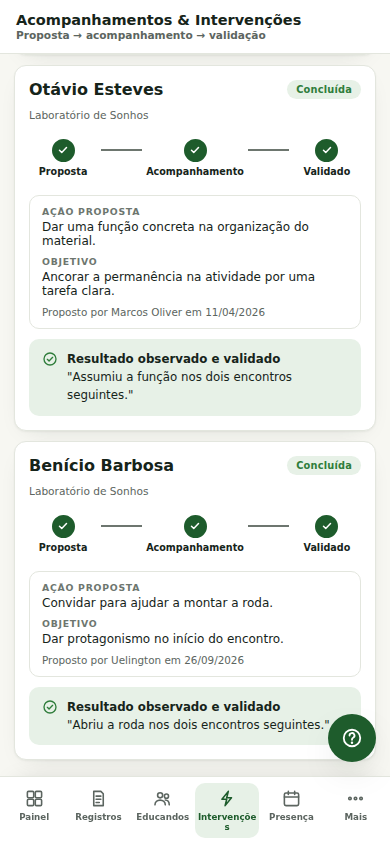
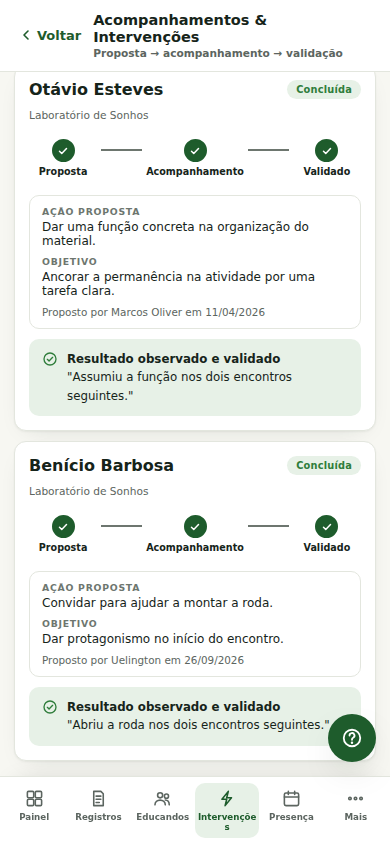
Add files via upload

Changed region(s): [[0.0308, 0.0, 0.9538, 0.0924], [0.1538, 0.4621, 0.3385, 0.4929]]

diff --git a/docs/testes/relatorio-html/index.html b/docs/testes/relatorio-html/index.html
@@ -82,4 +82,4 @@ Error generating stack: `+n.message+`
     <div id='root'></div>
   </body>
 </html>
[2 lines of base64/hex data omitted]

diff --git a/evidencias.html b/evidencias.html
@@ -105,15 +105,15 @@ footer{padding:40px 0 60px;color:var(--ink-3);font-size:13px}
   <div class="meta">
     <a class="chip" href="https://gabi-guerreiro.github.io/ebenezer-conecta/" target="_blank" rel="noopener">▶ Abrir o app</a>
     <a class="chip" href="https://github.com/gabi-guerreiro/ebenezer-conecta">Repositório</a>
-    <span class="chip">Testes executados em 26 de setembro de 2026 às 15:03</span>
+    <span class="chip">Testes executados em 26 de setembro de 2026 às 16:22</span>
   </div>
 </div></header>
 
 <div class="wrap"><div class="kpis">
-  <div class="kpi"><div class="n">16/16</div><div class="l">Testes aprovados</div></div>
+  <div class="kpi"><div class="n">17/17</div><div class="l">Testes aprovados</div></div>
   <div class="kpi"><div class="n">3</div><div class="l">Perfis com acesso separado</div></div>
   <div class="kpi"><div class="n">18</div><div class="l">Educandos sintéticos</div></div>
-  <div class="kpi"><div class="n">8</div><div class="l">Defeitos corrigidos</div></div>
+  <div class="kpi"><div class="n">9</div><div class="l">Defeitos corrigidos</div></div>
 </div></div>
 
 <nav class="toc"><div class="wrap">
@@ -127,7 +127,7 @@ footer{padding:40px 0 60px;color:var(--ink-3);font-size:13px}
   <p class="lead">Cada requisito da entrega, a evidência que o atende e o teste automatizado que o comprova.</p>
   <div class="card tbl"><table class="stack-sm">
     <thead><tr><th>Critério</th><th>Evidência</th><th class="hide-sm">Teste</th><th>Status</th></tr></thead>
-    <tbody><tr><td><b>MVP funcional executando o fluxo principal</b></td><td>Presença → avaliação DBR → observação → revisão humana → intervenção → trajetória → encaminhamento à psicóloga, nos 3 perfis. <a href="#fluxo">ver →</a></td><td class="hide-sm mono">T04–T12</td><td><span class="pill ok">Atendido</span></td></tr><tr><td><b>Modelo de dados implementado</b></td><td>9 coleções com chaves e regras de integridade (ERD e dicionário documentados). <a href="#modelo">ver →</a></td><td class="hide-sm mono">T13</td><td><span class="pill ok">Atendido</span></td></tr><tr><td><b>Populado com dados sintéticos representativos</b></td><td>18 educandos em 4 turmas, 15 avaliações, 9 registros, 3 intervenções, 4 encaminhamentos e 1 caso, cobrindo todos os estados. <a href="#dados">ver →</a></td><td class="hide-sm mono">T13</td><td><span class="pill ok">Atendido</span></td></tr><tr><td><b>Fase de testes validando o fluxo principal</b></td><td>16 testes E2E automatizados (Playwright): 16/16 aprovados. <a href="#testes">ver →</a></td><td class="hide-sm mono">T01–T16</td><td><span class="pill ok">Atendido</span></td></tr><tr><td><b>Operação estável</b></td><td>Zero erros de JavaScript em todos os testes, persistência após recarregar, restauração de dados, sem rolagem lateral em 375 px e 1280 px, 8 defeitos corrigidos. <a href="#estabilidade">ver →</a></td><td class="hide-sm mono">T15–T16</td><td><span class="pill ok">Atendido</span></td></tr><tr><td><b>Entrega via repositório</b></td><td>Código, testes, scripts e documentos versionados no GitHub e publicados no GitHub Pages. <a href="#acesso">ver →</a></td><td class="hide-sm mono">—</td><td><span class="pill ok">Atendido</span></td></tr><tr><td><b>Handover · vídeo demonstrativo</b></td><td>Vídeo narrado de 2 min 37 s, com legendas, gravado a partir do app real. <a href="#video">ver →</a></td><td class="hide-sm mono">—</td><td><span class="pill ok">Atendido</span></td></tr><tr><td><b>Handover · registro do modelo de dados</b></td><td>docs/modelo-de-dados.md: ERD, dicionário, regras calculadas. <a href="#modelo">ver →</a></td><td class="hide-sm mono">—</td><td><span class="pill ok">Atendido</span></td></tr><tr><td><b>Handover · instalação e acesso</b></td><td>README.md: link, perfis e códigos, como rodar, testar, publicar e manter. <a href="#acesso">ver →</a></td><td class="hide-sm mono">—</td><td><span class="pill ok">Atendido</span></td></tr><tr><td><b>Handover · evidências dos testes</b></td><td>Esta página + relatório Playwright + JSON + capturas de tela. <a href="#testes">ver →</a></td><td class="hide-sm mono">—</td><td><span class="pill ok">Atendido</span></td></tr><tr><td><b>Handover · principais decisões técnicas</b></td><td>docs/decisoes-tecnicas.md: 8 decisões e 8 correções. <a href="#decisoes">ver →</a></td><td class="hide-sm mono">—</td><td><span class="pill ok">Atendido</span></td></tr></tbody>
+    <tbody><tr><td><b>MVP funcional executando o fluxo principal</b></td><td>Presença → avaliação DBR → observação → revisão humana → intervenção → trajetória → encaminhamento à psicóloga, nos 3 perfis. <a href="#fluxo">ver →</a></td><td class="hide-sm mono">T04–T12</td><td><span class="pill ok">Atendido</span></td></tr><tr><td><b>Modelo de dados implementado</b></td><td>9 coleções com chaves e regras de integridade (ERD e dicionário documentados). <a href="#modelo">ver →</a></td><td class="hide-sm mono">T13</td><td><span class="pill ok">Atendido</span></td></tr><tr><td><b>Populado com dados sintéticos representativos</b></td><td>18 educandos em 4 turmas, 15 avaliações, 9 registros, 3 intervenções, 4 encaminhamentos e 1 caso, cobrindo todos os estados. <a href="#dados">ver →</a></td><td class="hide-sm mono">T13</td><td><span class="pill ok">Atendido</span></td></tr><tr><td><b>Fase de testes validando o fluxo principal</b></td><td>17 testes E2E automatizados (Playwright): 17/17 aprovados. <a href="#testes">ver →</a></td><td class="hide-sm mono">T01–T17</td><td><span class="pill ok">Atendido</span></td></tr><tr><td><b>Operação estável</b></td><td>Zero erros de JavaScript em todos os testes, navegação com &quot;Voltar&quot; em todas as abas, persistência após recarregar, restauração de dados, sem rolagem lateral em 375 px e 1280 px, 9 defeitos corrigidos. <a href="#estabilidade">ver →</a></td><td class="hide-sm mono">T15–T17</td><td><span class="pill ok">Atendido</span></td></tr><tr><td><b>Entrega via repositório</b></td><td>Código, testes, scripts e documentos versionados no GitHub e publicados no GitHub Pages. <a href="#acesso">ver →</a></td><td class="hide-sm mono">—</td><td><span class="pill ok">Atendido</span></td></tr><tr><td><b>Handover · vídeo demonstrativo</b></td><td>Vídeo narrado de 2 min 37 s, com legendas, gravado a partir do app real. <a href="#video">ver →</a></td><td class="hide-sm mono">—</td><td><span class="pill ok">Atendido</span></td></tr><tr><td><b>Handover · registro do modelo de dados</b></td><td>docs/modelo-de-dados.md: ERD, dicionário, regras calculadas. <a href="#modelo">ver →</a></td><td class="hide-sm mono">—</td><td><span class="pill ok">Atendido</span></td></tr><tr><td><b>Handover · instalação e acesso</b></td><td>README.md: link, perfis e códigos, como rodar, testar, publicar e manter. <a href="#acesso">ver →</a></td><td class="hide-sm mono">—</td><td><span class="pill ok">Atendido</span></td></tr><tr><td><b>Handover · evidências dos testes</b></td><td>Esta página + relatório Playwright + JSON + capturas de tela. <a href="#testes">ver →</a></td><td class="hide-sm mono">—</td><td><span class="pill ok">Atendido</span></td></tr><tr><td><b>Handover · principais decisões técnicas</b></td><td>docs/decisoes-tecnicas.md: 8 decisões e 9 correções. <a href="#decisoes">ver →</a></td><td class="hide-sm mono">—</td><td><span class="pill ok">Atendido</span></td></tr></tbody>
   </table></div>
 </section>
 
@@ -181,25 +181,26 @@ footer{padding:40px 0 60px;color:var(--ink-3);font-size:13px}
     <figure class="shot"><img loading="lazy" src="docs/evidencias/15-caso-atividade.png" alt="Caso clínico com atividade registrada"><figcaption><span class="tid">T10</span>Caso clínico com atividade registrada</figcaption></figure>
     <figure class="shot"><img loading="lazy" src="docs/evidencias/16-trajetoria.png" alt="Trajetória individual com leitura da evolução"><figcaption><span class="tid">T11</span>Trajetória individual com leitura da evolução</figcaption></figure>
     <figure class="shot"><img loading="lazy" src="docs/evidencias/17-relatorio.png" alt="Relatório com ficha técnica de cobertura"><figcaption><span class="tid">T12</span>Relatório com ficha técnica de cobertura</figcaption></figure>
+    <figure class="shot"><img loading="lazy" src="docs/evidencias/18-voltar-ao-painel.png" alt="Botão &quot;Voltar&quot; fora do painel (versão 1.0.1)"><figcaption><span class="tid">T17</span>Botão &quot;Voltar&quot; fora do painel (versão 1.0.1)</figcaption></figure>
   </div>
 </section>
 
 <section id="testes">
   <h2>Evidências dos testes</h2>
-  <p class="lead">16 testes ponta a ponta com Playwright + Chromium em tela de celular (390×844). Cada teste começa com o navegador limpo e reprova se ocorrer qualquer erro de JavaScript. Execução completa: 53 s. Resultado: <b>16 aprovados, 0 falhas</b>.</p>
+  <p class="lead">17 testes ponta a ponta com Playwright + Chromium em tela de celular (390×844). Cada teste começa com o navegador limpo e reprova se ocorrer qualquer erro de JavaScript. Execução completa: 57 s. Resultado: <b>17 aprovados, 0 falhas</b>.</p>
   <div class="card tbl"><table class="stack-sm">
     <thead><tr><th>ID</th><th>O que valida</th><th class="hide-sm">Grupo</th><th class="hide-sm">Duração</th><th>Resultado</th></tr></thead>
-    <tbody><tr><td class="mono"><b>T01</b></td><td>Tela inicial mostra os três perfis e a Equipe entra sem senha</td><td class="hide-sm muted">Acesso e perfis</td><td class="hide-sm"><div style="display:flex;gap:8px;align-items:center"><div class="bar" style="width:70px"><i style="width:4%"></i></div><span class="mono muted">0.6s</span></div></td><td><span class="pill ok">Aprovado</span></td></tr><tr><td class="mono"><b>T02</b></td><td>Código errado é recusado; código certo libera a Coordenação</td><td class="hide-sm muted">Acesso e perfis</td><td class="hide-sm"><div style="display:flex;gap:8px;align-items:center"><div class="bar" style="width:70px"><i style="width:4%"></i></div><span class="mono muted">0.6s</span></div></td><td><span class="pill ok">Aprovado</span></td></tr><tr><td class="mono"><b>T03</b></td><td>Segregação: só a psicóloga vê encaminhamentos, caso clínico e contato do responsável</td><td class="hide-sm muted">Acesso e perfis</td><td class="hide-sm"><div style="display:flex;gap:8px;align-items:center"><div class="bar" style="width:70px"><i style="width:22%"></i></div><span class="mono muted">4.1s</span></div></td><td><span class="pill ok">Aprovado</span></td></tr><tr><td class="mono"><b>T04</b></td><td>Presença: marcar todos, fechar lançamento; só a coordenação reabre</td><td class="hide-sm muted">Fluxo principal da coleta</td><td class="hide-sm"><div style="display:flex;gap:8px;align-items:center"><div class="bar" style="width:70px"><i style="width:24%"></i></div><span class="mono muted">4.5s</span></div></td><td><span class="pill ok">Aprovado</span></td></tr><tr><td class="mono"><b>T05</b></td><td>Avaliação bloqueada sem consentimento; liberada após a coordenação registrar</td><td class="hide-sm muted">Fluxo principal da coleta</td><td class="hide-sm"><div style="display:flex;gap:8px;align-items:center"><div class="bar" style="width:70px"><i style="width:20%"></i></div><span class="mono muted">3.6s</span></div></td><td><span class="pill ok">Aprovado</span></td></tr><tr><td class="mono"><b>T06</b></td><td>Avaliação inicial (modo rápido) + sinalização para a psicóloga; depois vira check-in</td><td class="hide-sm muted">Fluxo principal da coleta</td><td class="hide-sm"><div style="display:flex;gap:8px;align-items:center"><div class="bar" style="width:70px"><i style="width:100%"></i></div><span class="mono muted">18.6s</span></div></td><td><span class="pill ok">Aprovado</span></td></tr><tr><td class="mono"><b>T07</b></td><td>Registro de observação: alerta de outro nome, envio para revisão</td><td class="hide-sm muted">Fluxo principal da coleta</td><td class="hide-sm"><div style="display:flex;gap:8px;align-items:center"><div class="bar" style="width:70px"><i style="width:11%"></i></div><span class="mono muted">2.1s</span></div></td><td><span class="pill ok">Aprovado</span></td></tr><tr><td class="mono"><b>T08</b></td><td>Revisão humana: coordenação valida um registro e outro é devolvido e corrigido</td><td class="hide-sm muted">Fluxo principal da coleta</td><td class="hide-sm"><div style="display:flex;gap:8px;align-items:center"><div class="bar" style="width:70px"><i style="width:16%"></i></div><span class="mono muted">2.9s</span></div></td><td><span class="pill ok">Aprovado</span></td></tr><tr><td class="mono"><b>T09</b></td><td>Intervenção percorre proposta → acompanhamento → validação</td><td class="hide-sm muted">Fluxo principal da coleta</td><td class="hide-sm"><div style="display:flex;gap:8px;align-items:center"><div class="bar" style="width:70px"><i style="width:19%"></i></div><span class="mono muted">3.5s</span></div></td><td><span class="pill ok">Aprovado</span></td></tr><tr><td class="mono"><b>T10</b></td><td>Psicóloga revisa encaminhamento, abre caso e registra atividade</td><td class="hide-sm muted">Fluxo principal da coleta</td><td class="hide-sm"><div style="display:flex;gap:8px;align-items:center"><div class="bar" style="width:70px"><i style="width:23%"></i></div><span class="mono muted">4.3s</span></div></td><td><span class="pill ok">Aprovado</span></td></tr><tr><td class="mono"><b>T11</b></td><td>Trajetória individual consolida avaliações, registros e intervenções</td><td class="hide-sm muted">Fluxo principal da coleta</td><td class="hide-sm"><div style="display:flex;gap:8px;align-items:center"><div class="bar" style="width:70px"><i style="width:11%"></i></div><span class="mono muted">2.0s</span></div></td><td><span class="pill ok">Aprovado</span></td></tr><tr><td class="mono"><b>T12</b></td><td>Relatório de programa mostra ficha técnica e exclusão de quem não tem consentimento</td><td class="hide-sm muted">Fluxo principal da coleta</td><td class="hide-sm"><div style="display:flex;gap:8px;align-items:center"><div class="bar" style="width:70px"><i style="width:4%"></i></div><span class="mono muted">0.6s</span></div></td><td><span class="pill ok">Aprovado</span></td></tr><tr><td class="mono"><b>T13</b></td><td>Modelo de dados e massa sintética estão íntegros</td><td class="hide-sm muted">Regras de negócio e dados</td><td class="hide-sm"><div style="display:flex;gap:8px;align-items:center"><div class="bar" style="width:70px"><i style="width:4%"></i></div><span class="mono muted">0.4s</span></div></td><td><span class="pill ok">Aprovado</span></td></tr><tr><td class="mono"><b>T14</b></td><td>Frequência considera falta justificada e sinaliza recorrência</td><td class="hide-sm muted">Regras de negócio e dados</td><td class="hide-sm"><div style="display:flex;gap:8px;align-items:center"><div class="bar" style="width:70px"><i style="width:4%"></i></div><span class="mono muted">0.2s</span></div></td><td><span class="pill ok">Aprovado</span></td></tr><tr><td class="mono"><b>T15</b></td><td>Dados persistem após recarregar e podem ser restaurados</td><td class="hide-sm muted">Estabilidade</td><td class="hide-sm"><div style="display:flex;gap:8px;align-items:center"><div class="bar" style="width:70px"><i style="width:12%"></i></div><span class="mono muted">2.2s</span></div></td><td><span class="pill ok">Aprovado</span></td></tr><tr><td class="mono"><b>T16</b></td><td>Todas as telas de todos os perfis abrem sem erro e sem rolagem lateral</td><td class="hide-sm muted">Estabilidade</td><td class="hide-sm"><div style="display:flex;gap:8px;align-items:center"><div class="bar" style="width:70px"><i style="width:7%"></i></div><span class="mono muted">1.3s</span></div></td><td><span class="pill ok">Aprovado</span></td></tr></tbody>
+    <tbody><tr><td class="mono"><b>T01</b></td><td>Tela inicial mostra os três perfis e a Equipe entra sem senha</td><td class="hide-sm muted">Acesso e perfis</td><td class="hide-sm"><div style="display:flex;gap:8px;align-items:center"><div class="bar" style="width:70px"><i style="width:4%"></i></div><span class="mono muted">0.6s</span></div></td><td><span class="pill ok">Aprovado</span></td></tr><tr><td class="mono"><b>T02</b></td><td>Código errado é recusado; código certo libera a Coordenação</td><td class="hide-sm muted">Acesso e perfis</td><td class="hide-sm"><div style="display:flex;gap:8px;align-items:center"><div class="bar" style="width:70px"><i style="width:4%"></i></div><span class="mono muted">0.6s</span></div></td><td><span class="pill ok">Aprovado</span></td></tr><tr><td class="mono"><b>T03</b></td><td>Segregação: só a psicóloga vê encaminhamentos, caso clínico e contato do responsável</td><td class="hide-sm muted">Acesso e perfis</td><td class="hide-sm"><div style="display:flex;gap:8px;align-items:center"><div class="bar" style="width:70px"><i style="width:23%"></i></div><span class="mono muted">4.2s</span></div></td><td><span class="pill ok">Aprovado</span></td></tr><tr><td class="mono"><b>T04</b></td><td>Presença: marcar todos, fechar lançamento; só a coordenação reabre</td><td class="hide-sm muted">Fluxo principal da coleta</td><td class="hide-sm"><div style="display:flex;gap:8px;align-items:center"><div class="bar" style="width:70px"><i style="width:24%"></i></div><span class="mono muted">4.4s</span></div></td><td><span class="pill ok">Aprovado</span></td></tr><tr><td class="mono"><b>T05</b></td><td>Avaliação bloqueada sem consentimento; liberada após a coordenação registrar</td><td class="hide-sm muted">Fluxo principal da coleta</td><td class="hide-sm"><div style="display:flex;gap:8px;align-items:center"><div class="bar" style="width:70px"><i style="width:20%"></i></div><span class="mono muted">3.7s</span></div></td><td><span class="pill ok">Aprovado</span></td></tr><tr><td class="mono"><b>T06</b></td><td>Avaliação inicial (modo rápido) + sinalização para a psicóloga; depois vira check-in</td><td class="hide-sm muted">Fluxo principal da coleta</td><td class="hide-sm"><div style="display:flex;gap:8px;align-items:center"><div class="bar" style="width:70px"><i style="width:100%"></i></div><span class="mono muted">18.5s</span></div></td><td><span class="pill ok">Aprovado</span></td></tr><tr><td class="mono"><b>T07</b></td><td>Registro de observação: alerta de outro nome, envio para revisão</td><td class="hide-sm muted">Fluxo principal da coleta</td><td class="hide-sm"><div style="display:flex;gap:8px;align-items:center"><div class="bar" style="width:70px"><i style="width:11%"></i></div><span class="mono muted">2.1s</span></div></td><td><span class="pill ok">Aprovado</span></td></tr><tr><td class="mono"><b>T08</b></td><td>Revisão humana: coordenação valida um registro e outro é devolvido e corrigido</td><td class="hide-sm muted">Fluxo principal da coleta</td><td class="hide-sm"><div style="display:flex;gap:8px;align-items:center"><div class="bar" style="width:70px"><i style="width:17%"></i></div><span class="mono muted">3.1s</span></div></td><td><span class="pill ok">Aprovado</span></td></tr><tr><td class="mono"><b>T09</b></td><td>Intervenção percorre proposta → acompanhamento → validação</td><td class="hide-sm muted">Fluxo principal da coleta</td><td class="hide-sm"><div style="display:flex;gap:8px;align-items:center"><div class="bar" style="width:70px"><i style="width:18%"></i></div><span class="mono muted">3.4s</span></div></td><td><span class="pill ok">Aprovado</span></td></tr><tr><td class="mono"><b>T10</b></td><td>Psicóloga revisa encaminhamento, abre caso e registra atividade</td><td class="hide-sm muted">Fluxo principal da coleta</td><td class="hide-sm"><div style="display:flex;gap:8px;align-items:center"><div class="bar" style="width:70px"><i style="width:23%"></i></div><span class="mono muted">4.3s</span></div></td><td><span class="pill ok">Aprovado</span></td></tr><tr><td class="mono"><b>T11</b></td><td>Trajetória individual consolida avaliações, registros e intervenções</td><td class="hide-sm muted">Fluxo principal da coleta</td><td class="hide-sm"><div style="display:flex;gap:8px;align-items:center"><div class="bar" style="width:70px"><i style="width:11%"></i></div><span class="mono muted">2.0s</span></div></td><td><span class="pill ok">Aprovado</span></td></tr><tr><td class="mono"><b>T12</b></td><td>Relatório de programa mostra ficha técnica e exclusão de quem não tem consentimento</td><td class="hide-sm muted">Fluxo principal da coleta</td><td class="hide-sm"><div style="display:flex;gap:8px;align-items:center"><div class="bar" style="width:70px"><i style="width:4%"></i></div><span class="mono muted">0.6s</span></div></td><td><span class="pill ok">Aprovado</span></td></tr><tr><td class="mono"><b>T13</b></td><td>Modelo de dados e massa sintética estão íntegros</td><td class="hide-sm muted">Regras de negócio e dados</td><td class="hide-sm"><div style="display:flex;gap:8px;align-items:center"><div class="bar" style="width:70px"><i style="width:4%"></i></div><span class="mono muted">0.3s</span></div></td><td><span class="pill ok">Aprovado</span></td></tr><tr><td class="mono"><b>T14</b></td><td>Frequência considera falta justificada e sinaliza recorrência</td><td class="hide-sm muted">Regras de negócio e dados</td><td class="hide-sm"><div style="display:flex;gap:8px;align-items:center"><div class="bar" style="width:70px"><i style="width:4%"></i></div><span class="mono muted">0.2s</span></div></td><td><span class="pill ok">Aprovado</span></td></tr><tr><td class="mono"><b>T17</b></td><td>Fora do painel, toda aba tem &quot;Voltar&quot; que leva ao painel do perfil</td><td class="hide-sm muted">Estabilidade</td><td class="hide-sm"><div style="display:flex;gap:8px;align-items:center"><div class="bar" style="width:70px"><i style="width:25%"></i></div><span class="mono muted">4.7s</span></div></td><td><span class="pill ok">Aprovado</span></td></tr><tr><td class="mono"><b>T15</b></td><td>Dados persistem após recarregar e podem ser restaurados</td><td class="hide-sm muted">Estabilidade</td><td class="hide-sm"><div style="display:flex;gap:8px;align-items:center"><div class="bar" style="width:70px"><i style="width:12%"></i></div><span class="mono muted">2.2s</span></div></td><td><span class="pill ok">Aprovado</span></td></tr><tr><td class="mono"><b>T16</b></td><td>Todas as telas de todos os perfis abrem sem erro e sem rolagem lateral</td><td class="hide-sm muted">Estabilidade</td><td class="hide-sm"><div style="display:flex;gap:8px;align-items:center"><div class="bar" style="width:70px"><i style="width:5%"></i></div><span class="mono muted">0.9s</span></div></td><td><span class="pill ok">Aprovado</span></td></tr></tbody>
   </table></div>
   <p class="muted" style="font-size:13px;margin-top:10px">Arquivos brutos no repositório: <span class="mono">docs/testes/resultado-testes.json</span> · <span class="mono">docs/testes/relatorio-html/</span> · código em <span class="mono">tests/fluxo-principal.spec.js</span>. Para repetir: <span class="mono">npm install && npm test</span>.</p>
 </section>
 
 <section id="estabilidade">
   <h2>Estabilidade e defeitos corrigidos</h2>
-  <p class="lead">A fase de testes encontrou 8 defeitos, todos corrigidos. Os testes de regressão impedem que eles voltem.</p>
+  <p class="lead">A fase de testes encontrou 9 defeitos, todos corrigidos. Os testes de regressão impedem que eles voltem.</p>
   <div class="card tbl"><table class="stack-sm">
     <thead><tr><th>#</th><th>Problema encontrado</th><th>Correção</th></tr></thead>
-    <tbody><tr><td class="mono"><b>B1</b></td><td>O 1º toque em &quot;Enviar&quot; era perdido depois de digitar (observação, código, intervenção, caso).</td><td>Estado atualizado a cada tecla, sem redesenhar a tela.</td></tr><tr><td class="mono"><b>B2</b></td><td>O registro devolvido e corrigido não voltava para a fila.</td><td>Volta a &quot;aguardando&quot; e entra na auditoria.</td></tr><tr><td class="mono"><b>B3</b></td><td>A data &quot;de hoje&quot; era fixa, o que mostrava &quot;registrado 17 dias depois&quot;.</td><td>Usa a data do aparelho.</td></tr><tr><td class="mono"><b>B4</b></td><td>A turma Primeira Infância estava vazia.</td><td>A massa sintética passou a 18 educandos em 4 turmas.</td></tr><tr><td class="mono"><b>B5</b></td><td>9 abas na barra da coordenação, com rótulos quebrados.</td><td>5 abas + menu &quot;Mais&quot;.</td></tr><tr><td class="mono"><b>B6</b></td><td>Uma falha do armazenamento derrubava o app.</td><td>try/catch, validação e botão &quot;Restaurar dados&quot;.</td></tr><tr><td class="mono"><b>B7</b></td><td>O cabeçalho da trajetória saía sem estilo.</td><td>Estilo aplicado aos cartões.</td></tr><tr><td class="mono"><b>B8</b></td><td>Uma tela nova abria na rolagem da tela anterior (ex.: a trajetória já rolada até o meio).</td><td>Volta ao topo a cada troca de tela.</td></tr></tbody>
+    <tbody><tr><td class="mono"><b>B1</b></td><td>O 1º toque em &quot;Enviar&quot; era perdido depois de digitar (observação, código, intervenção, caso).</td><td>Estado atualizado a cada tecla, sem redesenhar a tela.</td></tr><tr><td class="mono"><b>B2</b></td><td>O registro devolvido e corrigido não voltava para a fila.</td><td>Volta a &quot;aguardando&quot; e entra na auditoria.</td></tr><tr><td class="mono"><b>B3</b></td><td>A data &quot;de hoje&quot; era fixa, o que mostrava &quot;registrado 17 dias depois&quot;.</td><td>Usa a data do aparelho.</td></tr><tr><td class="mono"><b>B4</b></td><td>A turma Primeira Infância estava vazia.</td><td>A massa sintética passou a 18 educandos em 4 turmas.</td></tr><tr><td class="mono"><b>B5</b></td><td>9 abas na barra da coordenação, com rótulos quebrados.</td><td>5 abas + menu &quot;Mais&quot;.</td></tr><tr><td class="mono"><b>B6</b></td><td>Uma falha do armazenamento derrubava o app.</td><td>try/catch, validação e botão &quot;Restaurar dados&quot;.</td></tr><tr><td class="mono"><b>B7</b></td><td>O cabeçalho da trajetória saía sem estilo.</td><td>Estilo aplicado aos cartões.</td></tr><tr><td class="mono"><b>B8</b></td><td>Uma tela nova abria na rolagem da tela anterior (ex.: a trajetória já rolada até o meio).</td><td>Volta ao topo a cada troca de tela.</td></tr><tr><td class="mono"><b>B9</b></td><td>Coordenação e Psicóloga não tinham como voltar ao painel depois de abrir uma aba pelos botões do painel.</td><td>Toda aba fora do painel mostra &quot;Voltar&quot; (versão 1.0.1).</td></tr></tbody>
   </table></div>
 </section>
 
@@ -244,7 +245,7 @@ footer{padding:40px 0 60px;color:var(--ink-3);font-size:13px}
   <div class="card" style="margin-top:12px;padding:16px 18px"><pre class="mono" style="margin:0;white-space:pre-wrap">git clone https://github.com/gabi-guerreiro/ebenezer-conecta.git
 cd ebenezer-conecta
 npm start          # app em http://localhost:4173
-npm install && npm test    # 16 testes E2E</pre></div>
+npm install && npm test    # 17 testes E2E</pre></div>
 </section>
 </main>
 

diff --git a/demo/gerar-evidencias.js b/demo/gerar-evidencias.js
@@ -32,14 +32,14 @@ const rubrica = [
   ['MVP funcional executando o fluxo principal', 'Presença → avaliação DBR → observação → revisão humana → intervenção → trajetória → encaminhamento à psicóloga, nos 3 perfis.', '#fluxo', 'T04–T12'],
   ['Modelo de dados implementado', '9 coleções com chaves e regras de integridade (ERD e dicionário documentados).', '#modelo', 'T13'],
   ['Populado com dados sintéticos representativos', '18 educandos em 4 turmas, 15 avaliações, 9 registros, 3 intervenções, 4 encaminhamentos e 1 caso, cobrindo todos os estados.', '#dados', 'T13'],
-  ['Fase de testes validando o fluxo principal', `${testes.length} testes E2E automatizados (Playwright): ${ok}/${testes.length} aprovados.`, '#testes', 'T01–T16'],
-  ['Operação estável', 'Zero erros de JavaScript em todos os testes, persistência após recarregar, restauração de dados, sem rolagem lateral em 375 px e 1280 px, 8 defeitos corrigidos.', '#estabilidade', 'T15–T16'],
+  ['Fase de testes validando o fluxo principal', `${testes.length} testes E2E automatizados (Playwright): ${ok}/${testes.length} aprovados.`, '#testes', 'T01–T17'],
+  ['Operação estável', 'Zero erros de JavaScript em todos os testes, navegação com "Voltar" em todas as abas, persistência após recarregar, restauração de dados, sem rolagem lateral em 375 px e 1280 px, 9 defeitos corrigidos.', '#estabilidade', 'T15–T17'],
   ['Entrega via repositório', 'Código, testes, scripts e documentos versionados no GitHub e publicados no GitHub Pages.', '#acesso', '—'],
-  ['Handover · vídeo demonstrativo', 'Vídeo de 85 s legendado, gravado automaticamente a partir do app real.', '#video', '—'],
+  ['Handover · vídeo demonstrativo', 'Vídeo narrado de 2 min 37 s, com legendas, gravado a partir do app real.', '#video', '—'],
   ['Handover · registro do modelo de dados', 'docs/modelo-de-dados.md: ERD, dicionário, regras calculadas.', '#modelo', '—'],
   ['Handover · instalação e acesso', 'README.md: link, perfis e códigos, como rodar, testar, publicar e manter.', '#acesso', '—'],
   ['Handover · evidências dos testes', 'Esta página + relatório Playwright + JSON + capturas de tela.', '#testes', '—'],
-  ['Handover · principais decisões técnicas', 'docs/decisoes-tecnicas.md: 8 decisões e 8 correções.', '#decisoes', '—'],
+  ['Handover · principais decisões técnicas', 'docs/decisoes-tecnicas.md: 8 decisões e 9 correções.', '#decisoes', '—'],
 ];
 
 const entidades = [
@@ -73,6 +73,7 @@ const bugs = [
   ['B6', 'Uma falha do armazenamento derrubava o app.', 'try/catch, validação e botão "Restaurar dados".'],
   ['B7', 'O cabeçalho da trajetória saía sem estilo.', 'Estilo aplicado aos cartões.'],
   ['B8', 'Uma tela nova abria na rolagem da tela anterior (ex.: a trajetória já rolada até o meio).', 'Volta ao topo a cada troca de tela.'],
+  ['B9', 'Coordenação e Psicóloga não tinham como voltar ao painel depois de abrir uma aba pelos botões do painel.', 'Toda aba fora do painel mostra "Voltar" (versão 1.0.1).'],
 ];
 
 const html = `<!DOCTYPE html>
@@ -190,7 +191,7 @@ footer{padding:40px 0 60px;color:var(--ink-3);font-size:13px}
   <div class="kpi"><div class="n">${ok}/${testes.length}</div><div class="l">Testes aprovados</div></div>
   <div class="kpi"><div class="n">3</div><div class="l">Perfis com acesso separado</div></div>
   <div class="kpi"><div class="n">18</div><div class="l">Educandos sintéticos</div></div>
-  <div class="kpi"><div class="n">8</div><div class="l">Defeitos corrigidos</div></div>
+  <div class="kpi"><div class="n">9</div><div class="l">Defeitos corrigidos</div></div>
 </div></div>
 
 <nav class="toc"><div class="wrap">
@@ -210,7 +211,7 @@ footer{padding:40px 0 60px;color:var(--ink-3);font-size:13px}
 
 <section id="video">
   <h2>Vídeo demonstrativo</h2>
-  <p class="lead">Fluxo principal nos três perfis, em 85 segundos, com legendas. Gravado automaticamente a partir do app real (<span class="mono">npm run video</span>).</p>
+  <p class="lead">Fluxo principal nos três perfis, em 2 min 37 s, com narração do grupo e legendas. As imagens foram gravadas automaticamente a partir do app real (<span class="mono">npm run video</span>) e sincronizadas com a locução.</p>
   <div class="video-box">
     <video controls preload="metadata" playsinline src="${src('docs/video/demo-ebenezer-conecta.mp4')}"></video>
     <div class="card" style="padding:18px 20px">
@@ -258,6 +259,7 @@ footer{padding:40px 0 60px;color:var(--ink-3);font-size:13px}
     ${img('15-caso-atividade', 'Caso clínico com atividade registrada', 'T10')}
     ${img('16-trajetoria', 'Trajetória individual com leitura da evolução', 'T11')}
     ${img('17-relatorio', 'Relatório com ficha técnica de cobertura', 'T12')}
+    ${img('18-voltar-ao-painel', 'Botão "Voltar" fora do painel (versão 1.0.1)', 'T17')}
   </div>
 </section>
 
@@ -277,7 +279,7 @@ footer{padding:40px 0 60px;color:var(--ink-3);font-size:13px}
 
 <section id="estabilidade">
   <h2>Estabilidade e defeitos corrigidos</h2>
-  <p class="lead">A fase de testes encontrou 8 defeitos, todos corrigidos. Os testes de regressão impedem que eles voltem.</p>
+  <p class="lead">A fase de testes encontrou 9 defeitos, todos corrigidos. Os testes de regressão impedem que eles voltem.</p>
   <div class="card tbl"><table class="stack-sm">
     <thead><tr><th>#</th><th>Problema encontrado</th><th>Correção</th></tr></thead>
     <tbody>${bugs.map(([i, p, c]) => `<tr><td class="mono"><b>${i}</b></td><td>${esc(p)}</td><td>${esc(c)}</td></tr>`).join('')}</tbody>
@@ -325,7 +327,7 @@ footer{padding:40px 0 60px;color:var(--ink-3);font-size:13px}
   <div class="card" style="margin-top:12px;padding:16px 18px"><pre class="mono" style="margin:0;white-space:pre-wrap">git clone https://github.com/gabi-guerreiro/ebenezer-conecta.git
 cd ebenezer-conecta
 npm start          # app em http://localhost:4173
-npm install && npm test    # 16 testes E2E</pre></div>
+npm install && npm test    # 17 testes E2E</pre></div>
 </section>
 </main>
 

diff --git a/index.html b/index.html
@@ -295,7 +295,7 @@ textarea:focus,.tinput:focus,input:focus,button:focus-visible,.navbtn:focus-visi
    consentimento por vínculo, DBR de 16 frases em 5 dimensões, fila de
    revisão humana e trilha de auditoria.
    ========================================================================== */
-const APP_VERSION = '1.0.0';
+const APP_VERSION = '1.0.1';
 const LS_KEY = 'ebenezer-conecta-v7';
 const CORRECAO_MS = 15*60*1000;
 // "Hoje" = data local do dispositivo (antes era fixa em 09/09/2026, o que gerava "registrado X dias depois" incorreto).
@@ -576,7 +576,8 @@ function topbarFor(){
   const titles = titleFor();
   return `
     <div class="topbar">
-      ${S.sub ? `<button class="tb-back" data-act="sub-back">${icoBack()} Voltar</button>` : ''}
+      ${S.sub ? `<button class="tb-back" data-act="sub-back">${icoBack()} Voltar</button>`
+        : (S.tab !== NAV[S.role].primary[0][0] ? `<button class="tb-back" data-act="tab-back">${icoBack()} Voltar</button>` : '')}
       <div>
         <div class="tb-title">${titles[0]}</div>
         ${titles[1] ? `<div class="tb-sub">${titles[1]}</div>` : ''}
@@ -1679,6 +1680,8 @@ function handle(act, el){
     case 'open-tutorial': S.tutorialOpen = true; render(); break;
     case 'close-tutorial': S.tutorialOpen = false; render(); break;
     case 'sub-back': S.sub=null; S.ctx={}; render(); break;
+    // Fora do painel inicial, "Voltar" leva de volta ao painel do perfil.
+    case 'tab-back': S.tab=NAV[S.role].primary[0][0]; S.sub=null; S.ctx={}; S.sheetOpen=false; render(); break;
 
     case 'painel-sub': ctx({painelSub:el.dataset.sub}); render(); break;
 

diff --git a/tests/fluxo-principal.spec.js b/tests/fluxo-principal.spec.js
@@ -339,6 +339,30 @@ test.describe('3. Regras de negócio e dados', () => {
 });
 
 test.describe('4. Estabilidade', () => {
+  test('T17 · Fora do painel, toda aba tem "Voltar" que leva ao painel do perfil', async ({ page }) => {
+    await abrir(page);
+    for (const perfil of ['educadora', 'coordenacao', 'psicologa']) {
+      await entrar(page, perfil);
+      const home = await page.locator('.tb-title').textContent();
+      await expect(page.locator('[data-act=tab-back]')).toHaveCount(0);
+      const tabs = await page.evaluate(p => allTabsFor(p).map(t => t[0]).slice(1), perfil);
+      for (const tab of tabs) {
+        await page.evaluate(t => { S.tab = t; S.sub = null; S.ctx = {}; render(); }, tab);
+        await expect(page.locator('[data-act=tab-back]'), `Voltar em ${perfil}/${tab}`).toHaveCount(1);
+        await page.click('[data-act=tab-back]');
+        await expect(page.locator('.tb-title')).toHaveText(home);
+      }
+      // A partir dos botões do painel (o caminho relatado)
+      const btn = page.locator('.content [data-act=nav]').first();
+      await btn.click();
+      if (perfil === 'coordenacao') await shot(page, '18-voltar-ao-painel');
+      await page.click('[data-act=tab-back]');
+      await expect(page.locator('.tb-title')).toHaveText(home);
+      if (perfil === 'educadora') await page.evaluate(() => { S.role = null; render(); });
+      else await sair(page);
+    }
+  });
+
   test('T15 · Dados persistem após recarregar e podem ser restaurados', async ({ page }) => {
     await abrir(page);
     await entrar(page, 'educadora');

diff --git a/docs/testes/README.md b/docs/testes/README.md
@@ -1,6 +1,6 @@
 # Evidências de testes
 
-**Resultado da última execução: 16 de 16 testes aprovados (0 falhas, 0 instáveis), em cerca de 53 s.**
+**Resultado da última execução: 17 de 17 testes aprovados (0 falhas, 0 instáveis), em cerca de 57 s.**
 
 - Relatório interativo: [`relatorio-html/index.html`](relatorio-html/index.html). Abra no navegador ou rode `npm run test:report`.
 - Resultado em formato de máquina: [`resultado-testes.json`](resultado-testes.json).
@@ -34,10 +34,11 @@
 | T14 | Regras | Frequência considerada, recorrência de falta justificada, contadores do painel | ✅ |
 | T15 | Estabilidade | Dados persistem após recarregar; "Restaurar dados" volta à carga inicial | ✅ |
 | T16 | Estabilidade | Todas as telas dos 3 perfis (inclusive as 18 trajetórias) sem erro e sem rolagem lateral em 375 px e 1280 px | ✅ |
+| T17 | Estabilidade | Toda aba fora do painel tem "Voltar", que leva ao painel do perfil (Equipe, Coordenação e Psicóloga) | ✅ |
 
 ## Defeitos encontrados e corrigidos
 
-Os 8 defeitos (B1 a B8) achados nesta fase e as respectivas correções estão em [`../decisoes-tecnicas.md`](../decisoes-tecnicas.md#correções-feitas-durante-a-fase-de-testes). Os testes T02, T03, T07, T08, T13, T15 e T16 funcionam como testes de regressão para eles.
+Os 9 defeitos (B1 a B9) achados nesta fase e as respectivas correções estão em [`../decisoes-tecnicas.md`](../decisoes-tecnicas.md#correções-feitas-durante-a-fase-de-testes). Os testes T02, T03, T07, T08, T13, T15, T16 e T17 funcionam como testes de regressão para eles.
 
 ## Como repetir os testes
 

diff --git a/docs/decisoes-tecnicas.md b/docs/decisoes-tecnicas.md
@@ -40,7 +40,7 @@ Registro no formato "decisão → por quê → consequência", para quem assumir
 
 ## DT-07 · Testes ponta a ponta com Playwright
 
-- **Decisão:** 16 testes automatizados simulam o usuário real (cliques e digitação) num Chromium com tela de celular.
+- **Decisão:** 17 testes automatizados simulam o usuário real (cliques e digitação) num Chromium com tela de celular.
 - **Por quê:** o valor do MVP está no fluxo entre perfis, e testes de interface são o que prova isso.
 - **Consequência:** `npm test` roda tudo em cerca de 1 minuto e gera um relatório HTML e as capturas de tela usadas como evidência.
 
@@ -62,3 +62,4 @@ Registro no formato "decisão → por quê → consequência", para quem assumir
 | B6 | Uma falha do `localStorage` (modo privado) derrubava o app, e não havia como voltar aos dados iniciais. | `try/catch` e validação na leitura, mais o botão "Restaurar dados de demonstração" (T15). |
 | B7 | O texto do cabeçalho da trajetória saía sem estilo (fonte grande). | Estilo `.meta` aplicado também aos cartões. |
 | B8 | Ao abrir uma tela nova, ela aparecia na rolagem da anterior (por exemplo, a trajetória já rolada até o meio). | A página volta ao topo a cada troca de tela (T03). |
+| B9 | Nos perfis Coordenação e Psicóloga, ao abrir uma aba pelos botões do painel, não havia como voltar ao painel. | Toda aba fora do painel mostra "Voltar", que leva ao painel do perfil; versão 1.0.1 (T17). |

diff --git a/README.md b/README.md
@@ -58,7 +58,7 @@ O app é um único arquivo (`index.html`). Também dá para simplesmente dar doi
 ```bash
 npm install
 npx playwright install chromium   # só na primeira vez
-npm test                          # roda os 16 testes (~1 min)
+npm test                          # roda os 17 testes (~1 min)
 npm run test:report               # abre o relatório HTML
 npm run video                     # regrava as imagens do vídeo, sem narração (precisa de ffmpeg)
 ```
@@ -102,4 +102,4 @@ playwright.config.js · package.json
 
 ## Créditos
 
-MBA Inteli, Grupo 5 (Adele Abdalla, Juliana Almeida, Marilia Pinheiro, Thaysa Benz). Projeto desenvolvido com o Instituto Social Ebenézer.
+MBA Inteli, Grupo 5. Projeto desenvolvido com o Instituto Social Ebenézer.
